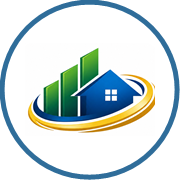
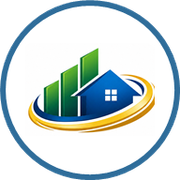
Wire up mosasanacapital.com custom domain and SEO.
Point GitHub Pages at the custom domain with favicons, Open Graph tags, schema.org metadata, and Namecheap DNS setup docs.

diff --git a/index.html b/index.html
@@ -9,15 +9,74 @@
     />
     <meta http-equiv="X-Content-Type-Options" content="nosniff" />
     <meta http-equiv="Referrer-Policy" content="strict-origin-when-cross-origin" />
-    <meta name="description" content="Mosasana Capital (PTY) LTD — trusted short-term financial relief and cash loan solutions in Botswana." />
-    <link rel="icon" type="image/png" sizes="32x32" href="/Mosasana-Capital-Pty-LTD/favicon-32.png?v=5" />
-    <link rel="icon" type="image/png" sizes="192x192" href="/Mosasana-Capital-Pty-LTD/favicon.png?v=5" />
-    <link rel="shortcut icon" href="/Mosasana-Capital-Pty-LTD/favicon-32.png?v=5" />
-    <link rel="apple-touch-icon" href="/Mosasana-Capital-Pty-LTD/apple-touch-icon.png?v=5" />
+    <meta http-equiv="Permissions-Policy" content="geolocation=(), microphone=(), camera=(), payment=()" />
+    <link rel="canonical" href="https://mosasanacapital.com/" />
+
+    <title>Mosasana Capital (PTY) LTD | Cash Loan Services in Botswana</title>
+    <meta
+      name="description"
+      content="Mosasana Capital (PTY) LTD — trusted short-term financial relief and cash loan solutions in Botswana. Apply online or via WhatsApp."
+    />
+
+    <link rel="icon" href="/favicon.ico" sizes="48x48" />
+    <link rel="icon" type="image/png" sizes="32x32" href="/favicon-32.png" />
+    <link rel="icon" type="image/png" sizes="16x16" href="/favicon-16.png" />
+    <link rel="icon" type="image/png" sizes="192x192" href="/favicon.png" />
+    <link rel="icon" type="image/svg+xml" href="/favicon.svg" />
+    <link rel="apple-touch-icon" href="/apple-touch-icon.png" />
+
+    <meta property="og:type" content="website" />
+    <meta property="og:url" content="https://mosasanacapital.com/" />
+    <meta property="og:title" content="Mosasana Capital (PTY) LTD | Cash Loan Services" />
+    <meta
+      property="og:description"
+      content="Trusted short-term financial relief and cash loan solutions in Botswana. Apply online or via WhatsApp."
+    />
+    <meta property="og:image" content="https://mosasanacapital.com/logo-512.png" />
+    <meta property="og:site_name" content="Mosasana Capital" />
+    <meta property="og:locale" content="en_BW" />
+
+    <meta name="twitter:card" content="summary" />
+    <meta name="twitter:title" content="Mosasana Capital (PTY) LTD | Cash Loan Services" />
+    <meta
+      name="twitter:description"
+      content="Trusted short-term financial relief and cash loan solutions in Botswana."
+    />
+    <meta name="twitter:image" content="https://mosasanacapital.com/logo-512.png" />
+
+    <script type="application/ld+json">
+      {
+        "@context": "https://schema.org",
+        "@type": "FinancialService",
+        "name": "Mosasana Capital (PTY) LTD",
+        "alternateName": "Mosasana Capital",
+        "url": "https://mosasanacapital.com",
+        "logo": "https://mosasanacapital.com/logo-512.png",
+        "image": "https://mosasanacapital.com/logo-512.png",
+        "description": "Trusted short-term financial relief and cash loan solutions in Botswana.",
+        "address": {
+          "@type": "PostalAddress",
+          "addressLocality": "Gaborone",
+          "addressCountry": "BW"
+        },
+        "contactPoint": {
+          "@type": "ContactPoint",
+          "contactType": "Customer Service",
+          "telephone": "[phone redacted]",
+          "email": "[email redacted]",
+          "areaServed": "BW",
+          "availableLanguage": ["English"]
+        },
+        "areaServed": {
+          "@type": "Country",
+          "name": "Botswana"
+        }
+      }
+    </script>
+
     <link rel="preconnect" href="https://fonts.googleapis.com" />
     <link rel="preconnect" href="https://fonts.gstatic.com" crossorigin />
     <link href="https://fonts.googleapis.com/css2?family=Manrope:wght@400;500;600;700;800&display=swap" rel="stylesheet" />
-    <title>Mosasana Capital (PTY) LTD | Cash Loan Services</title>
   </head>
   <body>
     <div id="root"></div>

diff --git a/src/lib/constants.ts b/src/lib/constants.ts
@@ -1,3 +1,5 @@
+export const SITE_URL = 'https://mosasanacapital.com'
+
 // The anon key is a public, RLS-protected key and is safe to ship in the client
 // bundle. Fallback defaults ensure the app never white-screens if a build-time
 // environment variable is missing (e.g. a GitHub Actions secret is not set).

diff --git a/vite.config.ts b/vite.config.ts
@@ -5,7 +5,7 @@ import path from 'path'
 
 export default defineConfig({
   plugins: [react(), tailwindcss()],
-  base: '/Mosasana-Capital-Pty-LTD/',
+  base: '/',
   resolve: {
     alias: {
       '@': path.resolve(__dirname, './src'),

diff --git a/README.md b/README.md
@@ -2,7 +2,8 @@
 
 Professional cash loan services website built with **React**, **Supabase** (free tier), and **GitHub Pages**.
 
-**Live site:** [futurifydesigns.github.io/Mosasana-Capital-Pty-LTD](https://futurifydesigns.github.io/Mosasana-Capital-Pty-LTD/)
+**Live site:** [mosasanacapital.com](https://mosasanacapital.com)  
+**GitHub Pages fallback:** [futurifydesigns.github.io/Mosasana-Capital-Pty-LTD](https://futurifydesigns.github.io/Mosasana-Capital-Pty-LTD/)
 
 Built by [Futurify Designs](https://futurifydesigns.com)
 
@@ -70,7 +71,40 @@ WHERE id = (SELECT id FROM auth.users WHERE email = '[email redacted]'
 2. Add repository secret `VITE_SUPABASE_ANON_KEY` with your Supabase anon key
 3. Push to `main` — the workflow deploys automatically
 
-### 6. Run locally
+### 6. Custom domain (mosasanacapital.com)
+
+The site is configured to serve at **https://mosasanacapital.com** via GitHub Pages (`public/CNAME`).
+
+#### A. Namecheap DNS
+
+In Namecheap → **Domain List** → **Manage** → **Advanced DNS**, add:
+
+| Type | Host | Value | TTL |
+|------|------|-------|-----|
+| A Record | `@` | `185.199.108.153` | Automatic |
+| A Record | `@` | `185.199.109.153` | Automatic |
+| A Record | `@` | `185.199.110.153` | Automatic |
+| A Record | `@` | `185.199.111.153` | Automatic |
+| CNAME | `www` | `futurifydesigns.github.io` | Automatic |
+
+Remove any conflicting parking-page or URL-redirect records for `@` or `www`.
+
+DNS can take up to 24–48 hours to propagate (often much faster).
+
+#### B. GitHub Pages custom domain
+
+1. Repo **Settings** → **Pages** → **Custom domain** → enter `mosasanacapital.com`
+2. Wait for DNS check to pass, then enable **Enforce HTTPS**
+3. Optionally add `www.mosasanacapital.com` as a second domain (redirects to apex)
+
+#### C. Supabase auth redirects
+
+In [Supabase Dashboard](https://supabase.com/dashboard/project/pwcootcdrbnadsbwduxi/auth/url-configuration), add:
+
+- **Site URL:** `https://mosasanacapital.com`
+- **Redirect URLs:** `https://mosasanacapital.com/**` and `https://www.mosasanacapital.com/**`
+
+### 7. Run locally
 
 ```bash
 npm run dev